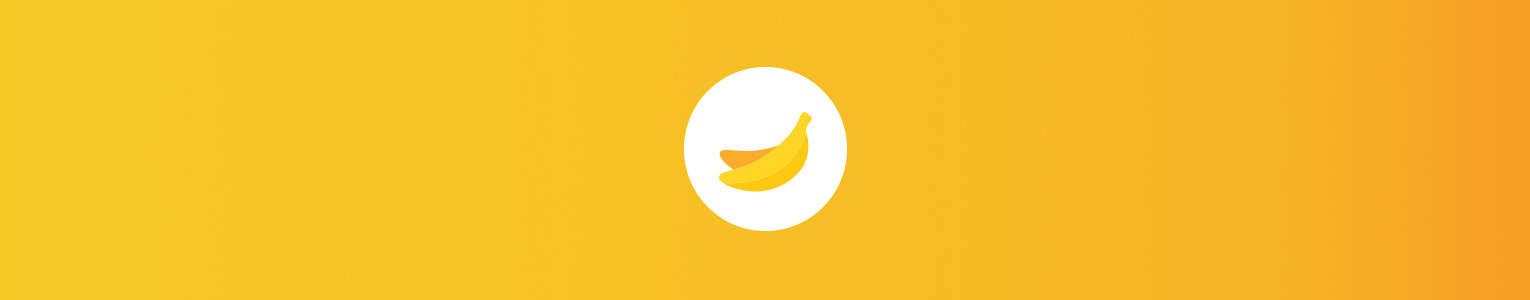
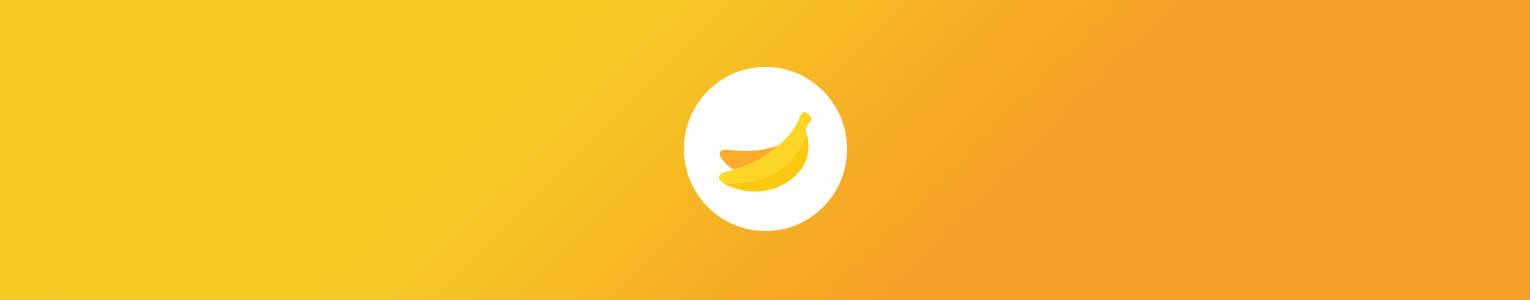
dddd

Changed region(s): [[0.5222, 0.45, 0.7065, 1.0]]

diff --git a/branding.html b/branding.html
@@ -106,7 +106,7 @@
                                 <div class="bloglist">
                                        <h4>ODD STUDIO</h4>
                                     <div class="text">
-                                        ODD STUDIO는 그동안 아기가지하고 귀여운스타일에만 국한되었던 반려견 용품과 의류를 대체적으로 미니멀하고 베이직하게 대중적으로 많은 사람들에게 어필 할 수 있는 브랜드로 전개하고자 방향을 잡았습니다.
+                                        오드 스튜디오는 그동안 아기가지하고 귀여운스타일에만 국한되었던 반려견 용품과 의류를 대체적으로 미니멀하고 베이직하게 대중적으로 많은 사람들에게 어필 할 수 있는 브랜드로 전개하고자 방향을 잡았습니다.
                                     </div>
                                     <a href="branding_project1.html" class="btn">MORE VIEW</a>
                                 </div>
@@ -117,7 +117,7 @@
                                 <div class="bloglist">
                                        <h4>DADOKDADOK</h4>
                                     <div class="text">
-                                        ODD STUDIO는 그동안 아기가지하고 귀여운스타일에만 국한되었던 반려견 용품과 의류를 대체적으로 미니멀하고 베이직하게 대중적으로 많은 사람들에게 어필 할 수 있는 브랜드로 전개하고자 방향을 잡았습니다.
+                                        도서관과 카페가 결합한 북카페 형태의 공공시설을 전연령층이 쉽게 방문할 수 있도록 키워드를 이용하여 심플하고 모던한 로고를 만들었습니다.
                                     </div>
                                     <a href="branding_project2.html" class="btn">MORE VIEW</a>
                                 </div>
@@ -126,9 +126,9 @@
                                 <div class="blogbg blogbg3">
                                 </div>
                                 <div class="bloglist">
-                                       <h4>BANANA APP</h4>
+                                       <h4>BANANA ALRAM</h4>
                                     <div class="text">
-                                        ODD STUDIO는 그동안 아기가지하고 귀여운스타일에만 국한되었던 반려견 용품과 의류를 대체적으로 미니멀하고 베이직하게 대중적으로 많은 사람들에게 어필 할 수 있는 브랜드로 전개하고자 방향을 잡았습니다.
+                                        기존 바나나 알람 앱의 바나나의 컨셉을 이용하여 새로운 앱 디자인을 기획하였습니다. 바나나를 상징하는 노란색을 주조색으로 보조색을 비롯한 앱의 다양한 기능을 일러스트로 표현하여 편의성을 향상시켰습니다.
                                     </div>
                                     <a href="branding_project3.html" class="btn">MORE VIEW</a>
                                 </div>

diff --git a/style.css b/style.css
@@ -588,13 +588,30 @@ select {
     background-position: center 0;
     background-attachment: fixed;
 }
+.content-brand1 {
+    background: url(demo-images/oddstudio_main.jpg);
+    background-size: cover;
+    background-position: center 0;
+    background-attachment: fixed;
+}
+.content-brand2 {
+    background: url(demo-images/dadokdadok_main.jpg);
+    background-size: cover;
+    background-position: center 0;
+    background-attachment: fixed;
+}
 .content-brand3 {
     background: url(demo-images/bananaapp_main.jpg);
     background-size: cover;
     background-position: center 0;
     background-attachment: fixed;
 }
-
+.content-web1 {
+    background: url(demo-images/jeju_main.jpg);
+    background-size: cover;
+    background-position: center 0;
+    background-attachment: fixed;
+}
 .content-1330 {
     max-width: 1330px;
 }
@@ -709,6 +726,12 @@ ul.slides li img {
 
 .webbg2{
     background: url(images/branding_02.jpg);
+    background-position: center;
+    background-repeat: no-repeat;
+    background-size: cover;
+}
+.webbg3{
+    background: url(images/web_03.jpg);
     background-position: center;
     background-repeat: no-repeat;
     background-size: cover;
@@ -1871,11 +1894,13 @@ div.pp_default .pp_loaderIcon {
     
     
     .tit {
-        font-size: 48px;
+        font-size: 36px;
         letter-spacing: -0.5px;
     }
 
-    
+    .contxt2{
+        margin-bottom: 6px;
+    }
     
     
     
@@ -1884,7 +1909,10 @@ div.pp_default .pp_loaderIcon {
     #content{
         padding-bottom: 0;
     }
-    
+    .contxt{
+        font-size: 18px;
+        line-height: 23px;
+    }
     
     
     

diff --git a/web_project1.html b/web_project1.html
@@ -9,7 +9,7 @@
     <meta name="viewport" content="width=device-width, initial-scale=1, maximum-scale=1">
 
     <link rel="shortcut icon" href="images/favicon.png" />
-    <link href="https://fonts.googleapis.com/css2?family=Noto+Sans+KR:wght@300;500;700&family=Roboto:wght@300;400;500;700&display=swap" rel="stylesheet">
+    <link href="https://fonts.googleapis.com/css2?family=Noto+Sans+KR:wght@300;500;700&family=Montserrat:wght@300;500;700;900&display=swap" rel="stylesheet">
     <link rel="stylesheet" type="text/css" href='css/clear.css' />
     <link rel="stylesheet" type="text/css" href='css/common.css' />
     <link rel="stylesheet" type="text/css" href='css/font-awesome.min.css' />
@@ -91,11 +91,11 @@
 
         <div id="content" class="site-content webcontent">
             <article class="bg">
-                <div class="content-img center-relative">
+                <div class="content-img content-web1 center-relative">
                     <div class="titbox2">
                         <!--                        <img src="demo-images/sun_about_image01.jpg" alt="">-->
 
-                        <p class="contxt2">P R O J E C T 01</p>
+                        <p class="contxt2">P R O J E C T 1</p>
                         <h3 class="tit contit">제주해녀박물관</h3>
                         <p class="txt contxt">제작기간 : 3주<br>디자인 / 기획 / 코딩</p>
                         <p class="contxt3">웹 표준형 메인페이지 및 서브페이지</p>

diff --git a/web.html b/web.html
@@ -97,7 +97,7 @@
                         <!--                        <img src="demo-images/sun_about_image01.jpg" alt="">-->
 
                         <h3 class="tit">WEB</h3>
-                        <p class="txt">웹디자인</p>
+                        <p class="txt">웹 디자인</p>
                     </div>
                     <div class="blog-holder block center-relative content-1530">
                         <article class="relative blog-item-holder center-relative">
@@ -130,7 +130,7 @@
                                     <div class="text">
                                         ODD STUDIO는 그동안 아기가지하고 귀여운스타일에만 국한되었던 반려견 용품과 의류를 대체적으로 미니멀하고 베이직하게 대중적으로 많은 사람들에게 어필 할 수 있는 브랜드로 전개하고자 방향을 잡았습니다.
                                     </div>
-                                    <a href="web_project1.html" class="btn">MORE VIEW</a>
+                                    <a href="https://blog.naver.com/ioks9150" class="btn" target="_blank">SITE VIEW</a>
                                 </div>
                         </article>
                         

diff --git a/branding_project3.html b/branding_project3.html
@@ -10,7 +10,7 @@
     <meta name="viewport" content="width=device-width, initial-scale=1, maximum-scale=1">
 
     <link rel="shortcut icon" href="images/favicon.png" />
-    <link href="https://fonts.googleapis.com/css2?family=Noto+Sans+KR:wght@300;500;700&family=Roboto:wght@300;400;500;700&display=swap" rel="stylesheet">
+    <link href="https://fonts.googleapis.com/css2?family=Noto+Sans+KR:wght@300;500;700&family=Montserrat:wght@300;500;700;900&display=swap" rel="stylesheet">
     <link rel="stylesheet" type="text/css" href='css/clear.css' />
     <link rel="stylesheet" type="text/css" href='css/common.css' />
     <link rel="stylesheet" type="text/css" href='css/font-awesome.min.css' />
@@ -96,7 +96,7 @@
                         <!--                        <img src="demo-images/sun_about_image01.jpg" alt="">-->
 
                         <p class="contxt2">P R O J E C T 3</p>
-                        <h3 class="tit contit">바나나 알람앱</h3>
+                        <h3 class="tit contit">바나나알람 APP</h3>
                         <p class="txt contxt">제작기간 : 2주<br>디자인 / 기획</p>
                         <p class="contxt3">리디자인</p>
                     </div>

diff --git a/branding_project1.html b/branding_project1.html
@@ -10,7 +10,7 @@
     <meta name="viewport" content="width=device-width, initial-scale=1, maximum-scale=1">
 
     <link rel="shortcut icon" href="images/favicon.png" />
-    <link href="https://fonts.googleapis.com/css2?family=Noto+Sans+KR:wght@300;500;700&family=Roboto:wght@300;400;500;700&display=swap" rel="stylesheet">
+    <link href="https://fonts.googleapis.com/css2?family=Noto+Sans+KR:wght@300;500;700&family=Montserrat:wght@300;500;700;900&display=swap" rel="stylesheet">
     <link rel="stylesheet" type="text/css" href='css/clear.css' />
     <link rel="stylesheet" type="text/css" href='css/common.css' />
     <link rel="stylesheet" type="text/css" href='css/font-awesome.min.css' />
@@ -91,7 +91,7 @@
 
         <div id="content" class="site-content webcontent">
             <article class="bg">
-                <div class="content-img center-relative">
+                <div class="content-img content-brand1 center-relative">
                     <div class="titbox2">
                         <!--                        <img src="demo-images/sun_about_image01.jpg" alt="">-->
 

diff --git a/branding_project2.html b/branding_project2.html
@@ -10,7 +10,7 @@
     <meta name="viewport" content="width=device-width, initial-scale=1, maximum-scale=1">
 
     <link rel="shortcut icon" href="images/favicon.png" />
-    <link href="https://fonts.googleapis.com/css2?family=Noto+Sans+KR:wght@300;500;700&family=Roboto:wght@300;400;500;700&display=swap" rel="stylesheet">
+    <link href="https://fonts.googleapis.com/css2?family=Noto+Sans+KR:wght@300;500;700&family=Montserrat:wght@300;500;700;900&display=swap" rel="stylesheet">
     <link rel="stylesheet" type="text/css" href='css/clear.css' />
     <link rel="stylesheet" type="text/css" href='css/common.css' />
     <link rel="stylesheet" type="text/css" href='css/font-awesome.min.css' />
@@ -91,7 +91,7 @@
 
         <div id="content" class="site-content webcontent">
             <article class="bg">
-                <div class="content-img center-relative">
+                <div class="content-img content-brand2 center-relative">
                     <div class="titbox2">
                         <!--                        <img src="demo-images/sun_about_image01.jpg" alt="">-->
 

diff --git a/editorial.html b/editorial.html
@@ -9,7 +9,7 @@
     <meta name="viewport" content="width=device-width, initial-scale=1, maximum-scale=1">
 
     <link rel="shortcut icon" href="images/favicon.png" />
-    <link href="https://fonts.googleapis.com/css2?family=Noto+Sans+KR:wght@300;500;700&family=Roboto:wght@300;400;500;700&display=swap" rel="stylesheet">
+    <link href="https://fonts.googleapis.com/css2?family=Noto+Sans+KR:wght@300;500;700&family=Montserrat:wght@300;500;700;900&display=swap" rel="stylesheet">
     <link rel="stylesheet" type="text/css" href='css/clear.css' />
     <link rel="stylesheet" type="text/css" href='css/common.css' />
     <link rel="stylesheet" type="text/css" href='css/font-awesome.min.css' />

diff --git a/visual.html b/visual.html
@@ -9,7 +9,7 @@
     <meta name="viewport" content="width=device-width, initial-scale=1, maximum-scale=1">
 
     <link rel="shortcut icon" href="images/favicon.png" />
-    <link href="https://fonts.googleapis.com/css2?family=Noto+Sans+KR:wght@300;500;700&family=Roboto:wght@300;400;500;700&display=swap" rel="stylesheet">
+    <link href="https://fonts.googleapis.com/css2?family=Noto+Sans+KR:wght@300;500;700&family=Montserrat:wght@300;500;700;900&display=swap" rel="stylesheet">
     <link rel="stylesheet" type="text/css" href='css/clear.css' />
     <link rel="stylesheet" type="text/css" href='css/common.css' />
     <link rel="stylesheet" type="text/css" href='css/font-awesome.min.css' />
